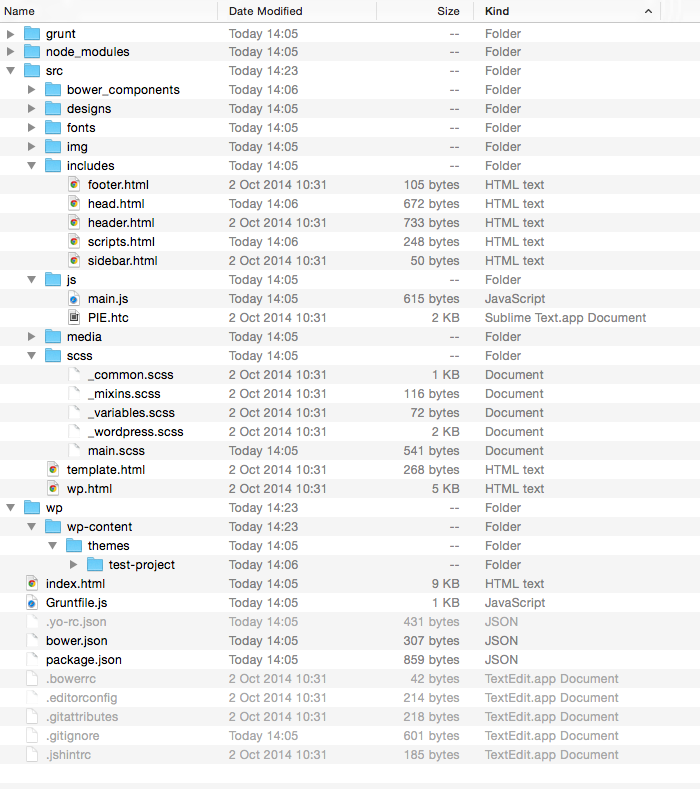
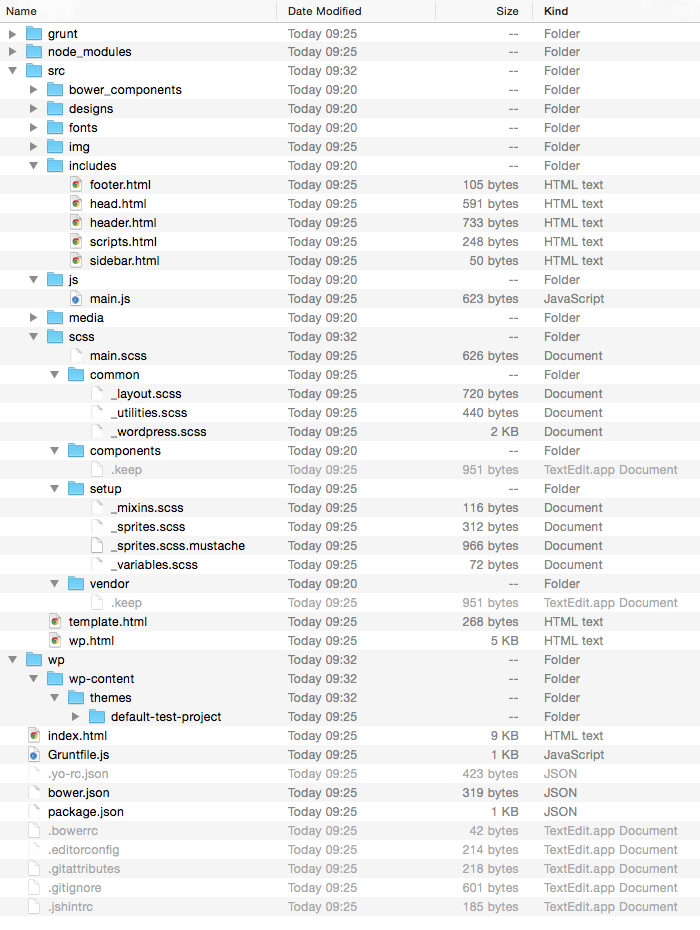
Documentation updates

Changed region(s): [[0.0, 0.0, 0.54, 1.0], [0.57, 0.0, 0.96, 1.0], [0.6, 0.0, 0.66, 0.0304]]

diff --git a/README.md b/README.md
@@ -32,6 +32,7 @@ XH Generator creates a project structure, files and Grunt tasks which support mo
    - [LibSass notices](#libsass-notices)
    - [Adding 3rd party dependency via Bower](#adding-3rd-party-dependency-via-bower)
    - [Using Sprites](#using-sprites)
+   - [Automatic SVG fallbacks](#automatic-svg-fallbacks)
 - [Changelog](#changelog)
 - [Contributing](#contributing)
 - [Credits](#credits)
@@ -171,13 +172,20 @@ The meaning of files and folders are as follows:
    - **grunt** - atomic grunt tasks configuration
    - **includes** - HTML partials like `head.html`, `scripts.html`, etc.
    - **scss / less** - SCSS or Less files
-      - `main.scss` / `main.less` - main file where other stylesheets are imported
-      - `_variables.scss` / `variables.less` - variables file
-      - `_mixins.scss` / `mixins.less` - mixins file
-      - `_common.scss` / `common.less` - common styles with some minimal default styling
-      - `_wp.scss` / `wp.less` -  [WordPress styles](http://codex.wordpress.org/CSS) for images and captions (in WP projects)
+     - `main.scss` / `main.less` - main file where other stylesheets are imported
+     - **common** - common styles for most of pages
+       - `_layout.scss` / `layout.less` - main page structure
+       - `_utilites.scss` / `utilities.less` - utility classes (image replacement, hide, etc.)
+       - `_wordpress.scss` / `wordpress.less` -  [WordPress styles](http://codex.wordpress.org/CSS) for images and captions (in WP projects)
+     - **components** - styles for page modules/components; this is where most of your styles will go
+     - **setup** - various configurations and preprocesor helpers
+       - `_variables.scss` / `variables.less` - variables file
+       - `_mixins.scss` / `mixins.less` - mixins file
+       - `_sprites.scss` / `sprites.less` - sprite mixin when 'Automatic sprites' feature is used
+       - `_sprites.scss.mustache` / `sprites.less.mustache` - template file for generating actual sprites code
+     - **vendor** - styles overwriting/replacing library ones
    - **js**
-      - `main.js` is a main JS file in project
+     - `main.js` is a main JS file in project
    - `home.html`, etc. - HTML files composed from HTML partials
 - `index.html` - project index with project pages listed
 - `Gruntfile.js` - [Grunt](http://gruntjs.com/) file with various automation tasks defined in it
@@ -191,7 +199,7 @@ The meaning of files and folders are as follows:
 - `.jshitrc` - [JSHint](http://www.jshint.com/) configuration
 
 
-On a typical project, you will work in `src` folder and check your work in `dist` folder so you don’t have to touch other files.
+On a typical project, you will work in `src` folder and check your work in `dist` folder so you don’t have to touch other files. For more info about working with styles structure go to [Writing styles section](#writing-styles).
 
 ### 3) Adding pages to the project
 
@@ -337,7 +345,7 @@ Now the project is set up and you can continue like described in the [Developmen
 
 ### Working with files in the dist folder
 
-In general, it’s not recommended that you work directly with files in the `dist`. The files in `dist` folder are automatically generated from the source files in `src` folder. However, once you hand over the project to your client, they can work directly with plain HTML and CSS files if they wish.
+In general, it’s not recommended that you work directly with files in the `dist`. The files in `dist` folder are automatically generated from the source files in `src` folder and by default `dist` folder is ignored in version control system. However, once you hand over the project to your client, they can work directly with plain HTML and CSS files if they wish.
 
 HTML and CSS files are prettified for consistent formatting and a table of contents from imported SCSS or Less stylesheets is generated at the beginning of `main.css` for better overview.
 
@@ -346,18 +354,26 @@ HTML and CSS files are prettified for consistent formatting and a table of conte
 XH Generator supports SCSS or Less. Sass syntax is not recommended. The following source files are generated in `src/scss` or `src/less` folders:
 
 - `main.scss` / `main.less` - main file where other stylesheets are imported
-- `_variables.scss` / `variables.less` - variables file
-- `_mixins.scss` / `mixins.less` - mixins file
-- `_common.scss` / `common.less` - some minimal common styling
-- `_wp.scss` / `wp.less` -  [WordPress styles](http://codex.wordpress.org/CSS) for images and captions (in WP projects)
+- **common** - common styles for most of pages
+  - `_layout.scss` / `layout.less` - main page structure
+  - `_utilites.scss` / `utilities.less` - utility classes (image replacement, hide, etc.)
+  - `_wordpress.scss` / `wordpress.less` -  [WordPress styles](http://codex.wordpress.org/CSS) for images and captions (in WP projects)
+- **components** - styles for page modules/components; this is where most of your styles will go
+- **setup** - various configurations and preprocesor helpers
+  - `_variables.scss` / `variables.less` - variables file
+  - `_mixins.scss` / `mixins.less` - mixins file
+  - `_sprites.scss` / `sprites.less` - sprite mixin when 'Automatic sprites' feature is used
+  - `_sprites.scss.mustache` / `sprites.less.mustache` - template file for generating actual sprites code
+- **vendor** - styles overwriting/replacing library ones
 
 The following approach is recommended when creating styles:
 
 1. Use `main.scss` or `main.less` only for importing other stylesheets. Do not write styles directly to these files!
 2. Use variables and mixins files to store your variables and mixins.
-3. Depending on your preferences for styles organization, you can organize them according modules & components (recommended), or pages.
-4. Comment [main sections and subsections](https://github.com/xhtmlized/css-coding-standards#comments) appropriately.
-5. If you want to avoid using preprocessors for certain reason (eg. your project is very simple), you can still use SCSS or Less files to write only regular CSS. In such case use the default LibSass or Less as they are [faster than Ruby Sass](http://www.solitr.com/blog/2014/01/css-preprocessor-benchmark/).
+3. Depending on your preferences for styles organization, you can organize them according modules & components (recommended, use **components** folder), or pages. A good practice is to name file the same as main class used for that component, for example if you create a component representing an article with `.article` as a main CSS class followed by `.article-title`, `.article-meta`, etc. and with `.article--featured` variant that will have slightly different color scheme, you will do everyone a favour by placing it in `scss/components/_article.scss` file instead of ~~`scss/components/_text.scss`~~.
+4. If you find yourself overwriting/replacing default library styles, put them into **vendor** folder. A good examples of that are replacing library custom select or lightbox styles with your own or overwriting some Bootstrap styles that were not configurable.
+5. Comment [main sections and subsections](https://github.com/xhtmlized/css-coding-standards#comments) appropriately.
+6. If you want to avoid using preprocessors for certain reason (eg. your project is very simple), you can still use SCSS or Less files to write only regular CSS. In such case use the default LibSass or Less as they are [faster than Ruby Sass](http://www.solitr.com/blog/2014/01/css-preprocessor-benchmark/).
 
 ### LibSass notices
 
@@ -388,12 +404,12 @@ Let’s say you want to add [Colorbox](http://www.jacklmoore.com/colorbox/) to y
 
 3. Go to `src/bower_components/jquery-colorbox` and copy images from `example1/images` folder to `src/img/colorbox` folder.
 
-4. Get `example1/colorbox.css` from the same dir, rename it to `colorbox.scss` and store it in `src/scss` folder
+4. Get `example1/colorbox.css` from the same dir, rename it to `_colorbox.scss`, store it in `src/scss/vendor` folder and adjust to your needs if needed.
 
 5. Import `colorbox.scss` in `main.scss`
 
     ```css
-    @import "colorbox";
+    @import "vendor/colorbox";
     ```
 
 6. Replace all instances of `images/` in `colorbox.scss` with `../img/colorbox/`
@@ -419,6 +435,10 @@ In the XH Generator default configuration you are expected to put yor files in `
 The exact variable names can be found in `src/scss/setup/_sprites@N.{scss|less}` files if you need to check them.
 
 **Important!** Currently you need to provide **both** files (nomal & retina). If you do not, the output sprite images will differ and as a result generated `background-position` values will be incorrect.
+
+### Automatic SVG fallbacks
+
+Vector graphics is increasingly more popular in web development due to its prefect look no matter the scale. As such you will probably find yourself using SVG files or icon fonts more and more often. However, not all browsers support SVGs out of the box, so fallbacks are needed. Currently XH Generator supports automatic optimization of SVG files (along with various other raster image formats) and PNG fallbacks creation. The caveat for correct automatic fallbacks is that SVG viewport needs to have proper size (PNG wile will have the same dimensions). Also, if something seems off you can [play with optimization settings](https://github.com/sindresorhus/grunt-svgmin#available-optionsplugins) in `grunt/contrib-imagemin.js` task.
 
 ## Changelog
 
